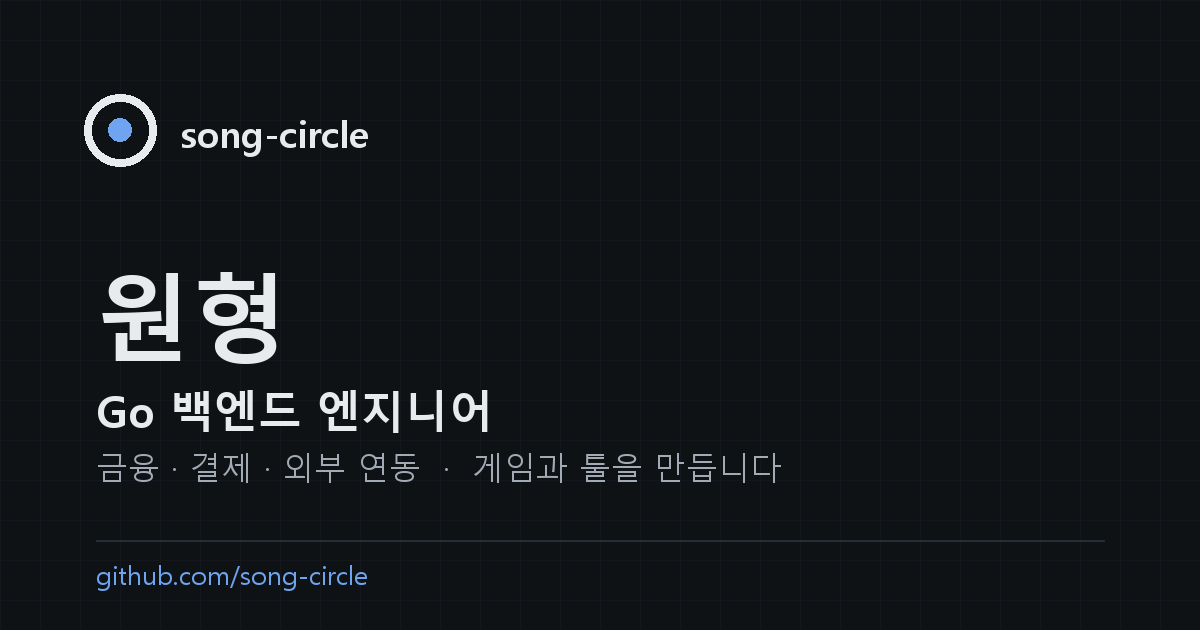
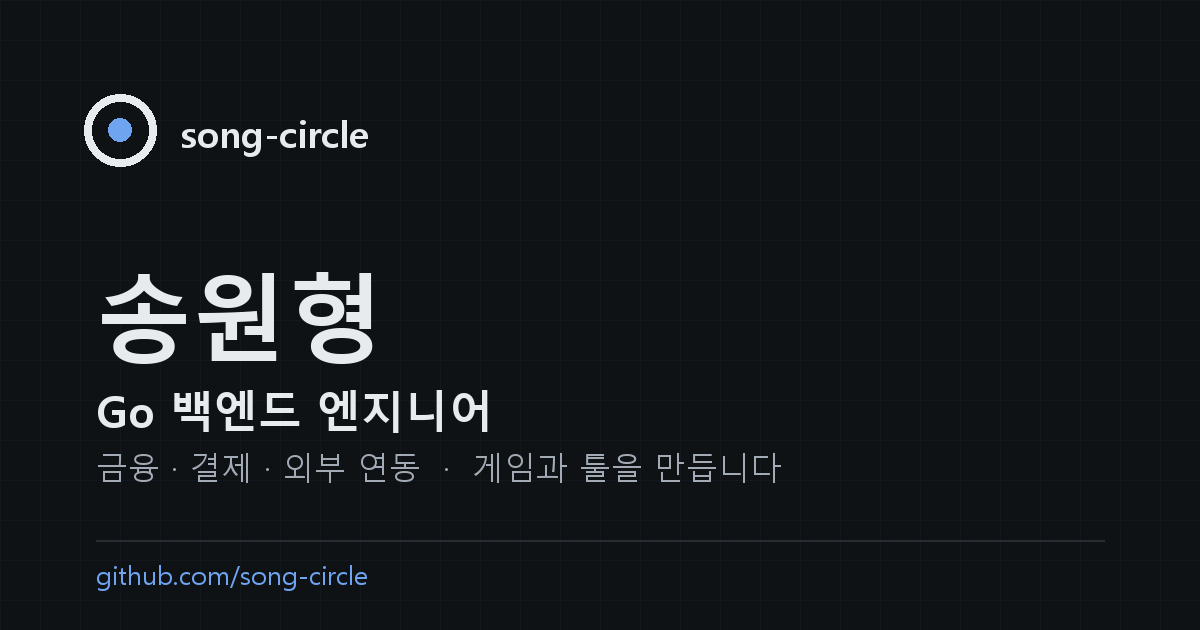
실명 표기, 힐링샘 경력과 회사별 사용 기술 반영

Changed region(s): [[0.0925, 0.4222, 0.3083, 0.6032]]

diff --git a/index.html b/index.html
@@ -3,8 +3,8 @@
 <head>
   <meta charset="utf-8">
   <meta name="viewport" content="width=device-width, initial-scale=1">
-  <title>원형 · Go 백엔드 엔지니어 | song-circle</title>
-  <meta name="description" content="Go 백엔드 엔지니어 원형의 포트폴리오. 금융·결제·외부 시스템 연동 백엔드 개발, OCR·LLM 자동화, CI/CD. 외주 문의와 채용 제안을 받습니다.">
+  <title>송원형 · Go 백엔드 엔지니어 | song-circle</title>
+  <meta name="description" content="Go 백엔드 엔지니어 송원형의 포트폴리오. 금융·결제·외부 시스템 연동 백엔드 개발, OCR·LLM 자동화, CI/CD. 외주 문의와 채용 제안을 받습니다.">
   <link rel="canonical" href="https://song-circle.github.io/">
   <meta name="theme-color" content="#ffffff" media="(prefers-color-scheme: light)">
   <meta name="theme-color" content="#0f1215" media="(prefers-color-scheme: dark)">
@@ -12,14 +12,14 @@
   <meta property="og:type" content="website">
   <meta property="og:site_name" content="song-circle">
   <meta property="og:locale" content="ko_KR">
-  <meta property="og:title" content="원형 · Go 백엔드 엔지니어">
+  <meta property="og:title" content="송원형 · Go 백엔드 엔지니어">
   <meta property="og:description" content="금융·결제·외부 연동 백엔드 개발. 게임과 툴을 만듭니다. 외주 문의·채용 제안 환영.">
   <meta property="og:url" content="https://song-circle.github.io/">
   <meta property="og:image" content="https://song-circle.github.io/assets/og.png">
   <meta property="og:image:width" content="1200">
   <meta property="og:image:height" content="630">
   <meta name="twitter:card" content="summary_large_image">
-  <meta name="twitter:title" content="원형 · Go 백엔드 엔지니어">
+  <meta name="twitter:title" content="송원형 · Go 백엔드 엔지니어">
   <meta name="twitter:description" content="금융·결제·외부 연동 백엔드 개발. 게임과 툴을 만듭니다.">
   <meta name="twitter:image" content="https://song-circle.github.io/assets/og.png">
 
@@ -34,11 +34,11 @@
   {
     "@context": "https://schema.org",
     "@type": "Person",
-    "name": "원형",
+    "name": "송원형",
     "url": "https://song-circle.github.io/",
     "jobTitle": "Backend Engineer",
     "description": "Go 백엔드 엔지니어 · 금융·결제·외부 연동 · 게임과 툴 개발",
-    "knowsAbout": ["Go", "MySQL", "Kafka", "Redis", "Node.js", "TypeScript", "Python", "C++", "C#", "Unity", "Jenkins", "Payment integration", "Risk management systems", "OCR", "LLM"],
+    "knowsAbout": ["Go", "MySQL", "Kafka", "Redis", "Node.js", "TypeScript", "PHP", "Java", "Python", "C++", "C#", "Unity", "Jenkins", "Payment integration", "Risk management systems", "OCR", "LLM"],
     "email": "mailto:junk2393@naver.com",
     "sameAs": ["https://github.com/song-circle"]
   }
@@ -51,7 +51,7 @@
     <!-- 1. Hero -->
     <section class="hero" id="top">
       <div class="container">
-        <h1 class="hero-name" id="hero-name">원형</h1>
+        <h1 class="hero-name" id="hero-name">송원형</h1>
         <p class="hero-tagline" data-i18n="hero.tagline">Go 백엔드 엔지니어 · 금융·결제·외부 연동 전문 · 게임과 툴을 만듭니다</p>
         <p class="hero-sub" data-i18n="hero.sub"></p>
         <div class="hero-actions">

diff --git a/data/career.js b/data/career.js
@@ -25,17 +25,17 @@ window.CAREER = [
   {
     period: "2026.08 – 현재",
     company: "(주)힐링샘",
-    domain: "",
-    role: "", // TODO: 직급 · 직무
-    title: "커뮤니티·쇼핑몰·보건교사 기록 시스템 개발",
+    domain: "커뮤니티 · 쇼핑몰 · 보건교사 기록 시스템",
+    role: "과장 · 1인 개발",
+    title: "운영 중인 서비스 3종 고도화·유지보수 단독 개발",
     current: true,
     points: [
-      "커뮤니티 서비스 개발",
-      "쇼핑몰 개발",
-      "보건교사 기록 시스템 개발"
-      // TODO: 각 서비스에서 맡은 범위·해결한 문제 구체화
+      "커뮤니티, 쇼핑몰, 보건교사 기록 시스템을 혼자 맡아 개발",
+      "기존 서비스 고도화와 기능 개선, 유지보수 담당",
+      "PHP·Java·TypeScript·Python으로 된 서비스를 Naver Cloud 환경에서 운영"
+      // TODO(선택): 서비스별로 해결한 문제·성과 구체화
     ],
-    stack: [] // TODO: 사용 기술
+    stack: ["PHP", "Java", "TypeScript", "Python", "Naver Cloud"]
   },
   {
     period: "2024.04 – 2026.06",
@@ -79,7 +79,7 @@ window.CAREER = [
     points: [
       "증권 스트리밍 서비스 관련 백엔드 개발 참여"
     ],
-    stack: [] // TODO(선택): 사용 기술
+    stack: ["Node.js", "TypeScript", "Oracle", "MSSQL", "MariaDB", "Linux", "Nginx", "Shell Script"]
   },
   {
     period: "2021.11 – 2024.01",
@@ -126,7 +126,7 @@ window.CAREER = [
         ]
       }
     ],
-    stack: [] // TODO: 사용 기술 (Node.js·TypeScript·Oracle·MSSQL 등 경력서 기술 중 이 회사에서 쓴 것)
+    stack: ["Node.js", "TypeScript", "Oracle", "MSSQL", "MariaDB", "Linux", "Nginx", "Shell Script"]
   }
 ];
 

diff --git a/data/skills.js b/data/skills.js
@@ -8,11 +8,13 @@ window.SKILLS = [
   { name: "MySQL", use: "다국가 통합 CRM 플랫폼 데이터베이스" },
   { name: "Kafka", use: "CRM 비동기 이벤트 처리, 실시간 데이터 파이프라인, 고객 이벤트 수집·분석" },
   { name: "Redis", use: "캐싱·세션 관리, 대시보드 응답 속도·조회 성능 개선" },
-  { name: "Node.js · TypeScript · JavaScript", use: "" }, // TODO: 어디에 썼는지 (예: 잇핀 증권형 부동산·병원 예약 시스템 프론트/백엔드?)
-  { name: "Oracle · MSSQL · MariaDB", use: "" }, // TODO: 어디에 썼는지
-  { name: "Linux · Nginx · Shell Script", use: "" }, // TODO: 어디에 썼는지 (예: 서버 운영·배포)
+  { name: "Node.js · TypeScript · JavaScript", use: "증권사 RMS·증권형 부동산·예약·디바이스 연동 서비스 개발, 현재 서비스 유지보수" },
+  { name: "Oracle · MSSQL · MariaDB", use: "증권·부동산 금융·예약 서비스 데이터베이스" },
+  { name: "Linux · Nginx · Shell Script", use: "금융·예약 서비스 서버 운영" },
+  { name: "PHP · Java", use: "커뮤니티·쇼핑몰·보건교사 기록 시스템 고도화·유지보수" },
+  { name: "Python", use: "커뮤니티·쇼핑몰·보건교사 기록 시스템 개발" },
+  { name: "Naver Cloud", use: "현재 운영 중인 서비스 인프라" },
   { name: "Jenkins", use: "CRM 플랫폼 빌드·배포 CI/CD 구축·운영" },
-  { name: "Python", use: "" }, // TODO: 사용처 한 줄
   { name: "C/C++", use: "Windows CPU 벤치마크 부하 모듈" },
   { name: "C# / Unity", use: "Unity 게임 클라이언트" }
 ];

diff --git a/games/index.html b/games/index.html
@@ -4,7 +4,7 @@
   <meta charset="utf-8">
   <meta name="viewport" content="width=device-width, initial-scale=1">
   <title>게임 | song-circle</title>
-  <meta name="description" content="song-circle(원형)이 만드는 게임 목록. 게임 소개, 다운로드·스토어 링크, 개인정보처리방침.">
+  <meta name="description" content="song-circle(송원형)이 만드는 게임 목록. 게임 소개, 다운로드·스토어 링크, 개인정보처리방침.">
   <link rel="canonical" href="https://song-circle.github.io/games/">
   <meta property="og:type" content="website">
   <meta property="og:site_name" content="song-circle">

diff --git a/data/site.js b/data/site.js
@@ -8,8 +8,8 @@ window.SITE = {
   baseUrl: "https://song-circle.github.io", // TODO: 커스텀 도메인 연결 시 교체
 
   name: {
-    ko: "원형",
-    en: "원형" // TODO: 영문 이름 표기
+    ko: "송원형",
+    en: "송원형" // TODO: 영문 이름 표기
   },
 
   // 연락처

diff --git a/README.md b/README.md
@@ -1,6 +1,6 @@
 # song-circle.github.io
 
-원형(song-circle)의 개인 사이트. 외주 문의 · 채용 제안 · 게임 브랜드 홈페이지 · 유튜브 연계용.
+송원형(song-circle)의 개인 사이트. 외주 문의 · 채용 제안 · 게임 브랜드 홈페이지 · 유튜브 연계용.
 
 - 순수 HTML/CSS/JS 정적 사이트 (빌드 도구·npm 없음). 레포를 그대로 GitHub Pages에 올리면 동작합니다.
 - 내용(경력·프로젝트·게임·영상·문구)은 모두 `data/*.js` 에서 관리합니다.
@@ -182,12 +182,10 @@ window.VIDEOS = [
 - [ ] (선택) `links.linkedin`
 
 ### 경력 — `data/career.js`
-- [ ] 힐링샘: `role` 직급·직무, 서비스별 맡은 범위, `stack`
-- [ ] 잇핀·디맨드커브: `stack` 사용 기술
-- [ ] 성과 수치가 있으면 추가
+- [ ] (선택) 회사별 성과 수치·해결한 문제 구체화
 
 ### 기술 스택 — `data/skills.js`
-- [ ] Node.js·TypeScript·JavaScript, Oracle·MSSQL·MariaDB, Linux·Nginx·Shell, Python 사용처
+- [ ] (선택) 사용처 문구 다듬기
 
 ### 프로젝트 — `data/projects.js`
 - [ ] 두 프로젝트의 `github`, `video` 링크
